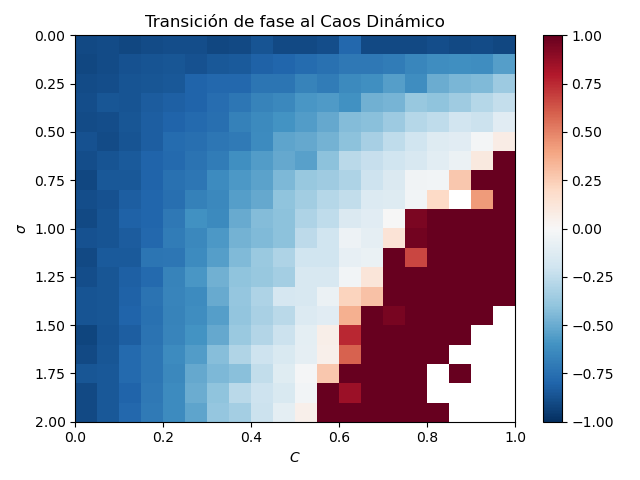
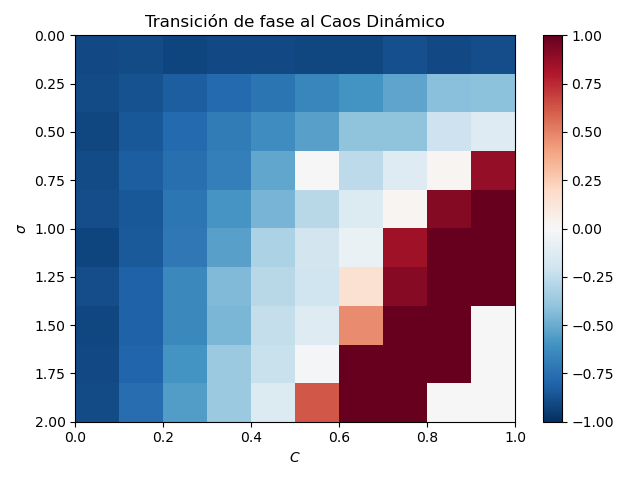
Actualizados scripts y gráficos de transiciones de fase

diff --git a/Random Walk/phase_transitions.py b/Random Walk/phase_transitions.py
@@ -178,9 +178,9 @@ def calcular_lyapunov_automatico(tiempo, dist, epsilon=1e-8, d_sat=0.1):
 @njit(fastmath=True)
 def sacar_imagen():
     # Listas para guardar los resultados de la transición
-    n_medias = 20
-    n_sigma = 100
-    n_C = 100
+    n_medias = 1
+    n_sigma = 10
+    n_C = 10
     valores_sigma = np.linspace(0, 2, n_sigma)
     valores_conectividad = np.linspace(0, 1, n_C)
     lyapunov_exponents = np.zeros((n_sigma, n_C))
@@ -235,19 +235,45 @@ def sacar_imagen():
     return lyapunov_exponents
 
 
-regresion_lineal_numba(np.ones(2), np.ones(2))
+# # regresion_lineal_numba(np.ones(2), np.ones(2))
 
-print("Antes de la función")
-lyapunov_exponents = sacar_imagen()
-print("Después de la función")
-# --- GRAFICAR LA TRANSICIÓN DE FASE DE LYAPUNOV ---
-plt.figure()
-img = plt.imshow(lyapunov_exponents.T, cmap='RdBu_r', extent=[0, 1, 2, 0], vmin=-1, vmax=1, aspect='auto')
-plt.colorbar(img)
-plt.ylabel(r"$\sigma$")
-plt.xlabel(r"$C$")
-plt.title("Transición de fase al Caos Dinámico")
+# print("Antes de la función")
+# # lyapunov_exponents = sacar_imagen()
+# print("Después de la función")
+# # --- GRAFICAR LA TRANSICIÓN DE FASE DE LYAPUNOV ---
+# plt.figure()
+# img = plt.imshow(lyapunov_exponents.T, cmap='RdBu_r', extent=[0, 1, 2, 0], vmin=-1, vmax=1, aspect='auto')
+# plt.colorbar(img)
+# plt.ylabel(r"$\sigma$")
+# plt.xlabel(r"$C$")
+# plt.title("Transición de fase al Caos Dinámico")
+# plt.tight_layout()
+# plt.savefig("Transición de fase.png")
+# plt.savefig("Transición de fase.pdf")
+# plt.show()
+
+N = 100
+C = 1
+s = 2
+
+tau = 1
+
+dt = 0.01
+steps = int(30/dt)
+time = np.linspace(0, steps * dt, steps)
+epsilon = 1e-8
+
+A , K = construir_matriz_ISLM(N, C, s, 0, 1)
+
+
+X_0 = np.ones(N)
+
+X = deterministic_interacting_time_series(X_0, tau, dt, A, steps)
+
+plt.plot(time, X, c='red', alpha=0.6)
+plt.xlabel("Time", fontsize=18)
+plt.ylabel("Abundance", fontsize=18)
+plt.title(fr"$\sigma = {s}$  $C = {C}$", fontsize=18)
+plt.tick_params(axis='both', labelsize=14)
 plt.tight_layout()
-plt.savefig("Transición de fase.png")
-plt.savefig("Transición de fase.pdf")
 plt.show()